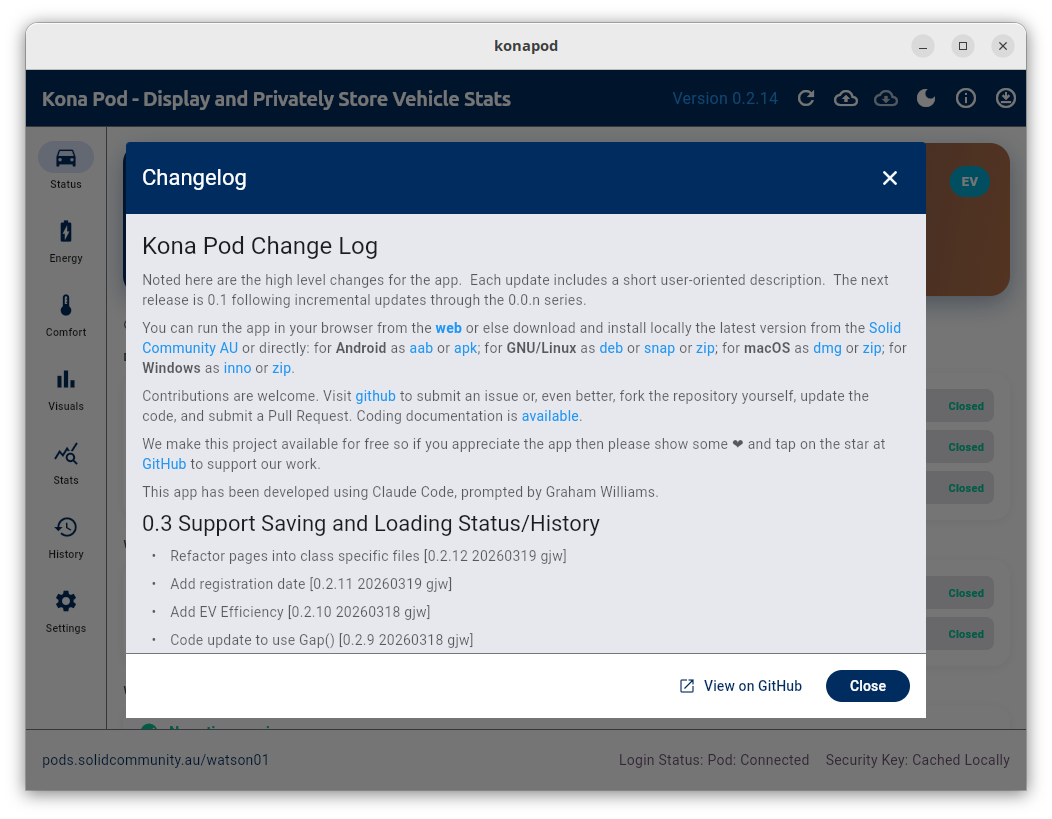
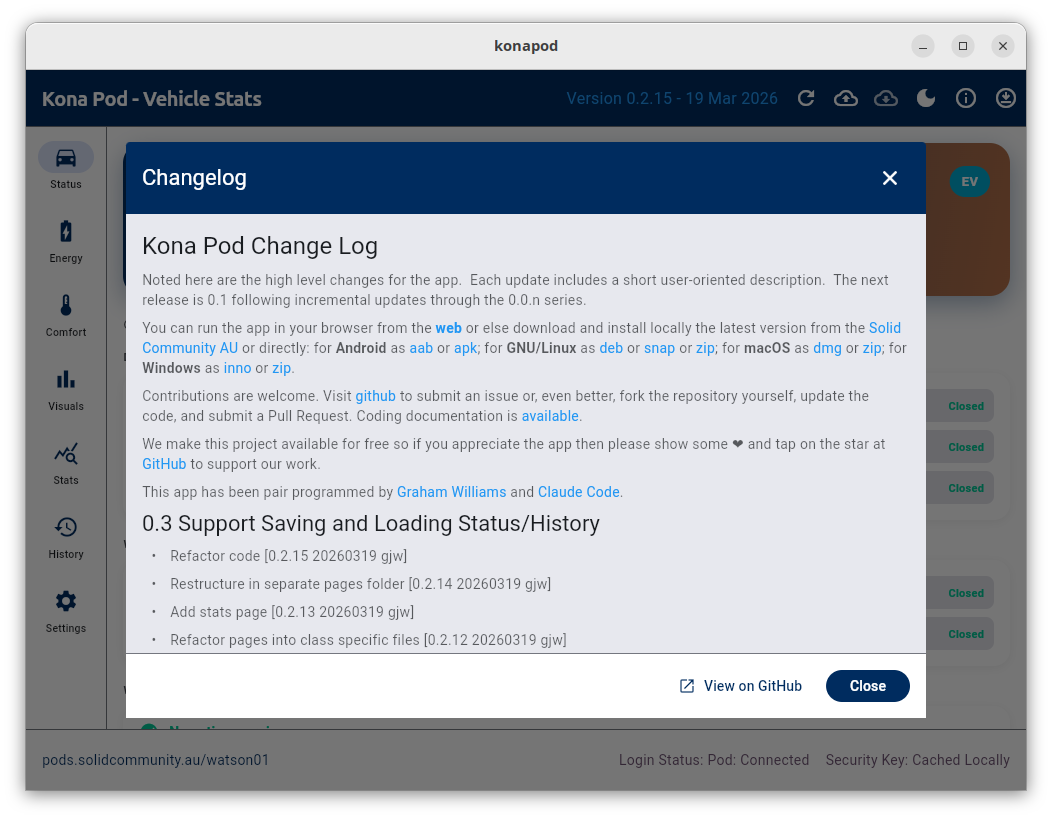
Updated showcase.

diff --git a/README.md b/README.md
@@ -120,6 +120,10 @@ charateristics.
 
 ![Visuals Page](./assets/screenshots/visuals.png)
 
+Stats Page - Various statistics abuot your vehicle's performance.
+
+![Stats Page](./assets/screenshots/stats.png)
+
 History Page - This data is stored securely and privately on your
 Solid Pod. Tap the dow arrow to load that dataset into the app as the
 analysed dataset (replacing the data downloaded from your vehicle).
